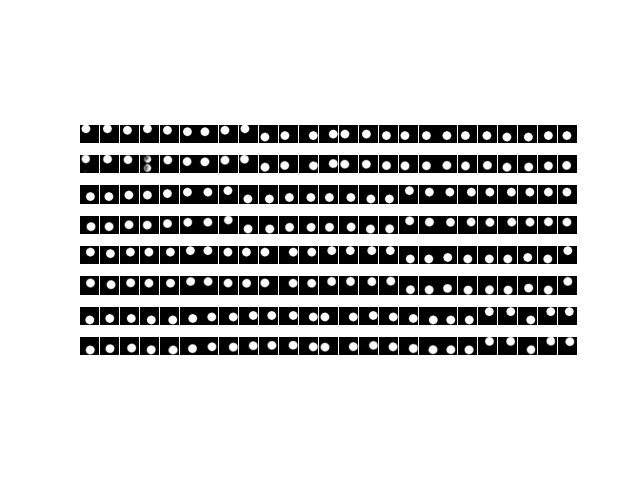
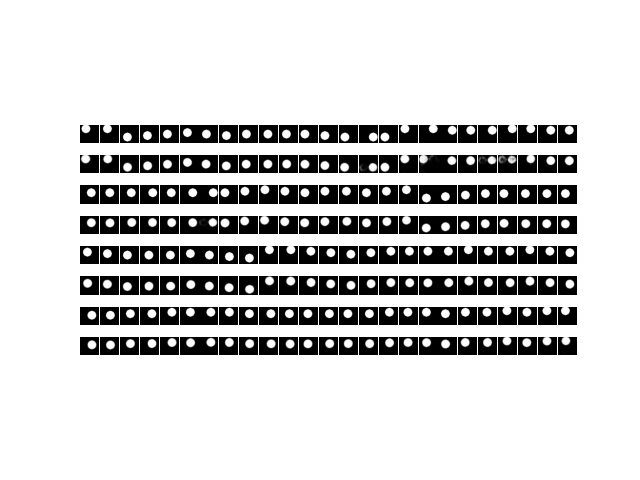
rotation matrix

Changed region(s): [[0.125, 0.25, 0.9062, 0.75]]

diff --git a/code/learn_4_dim_linear_disentangled_representation/vae/arch_torch_sans_cos_sin.py b/code/learn_4_dim_linear_disentangled_representation/vae/arch_torch_sans_cos_sin.py
@@ -37,21 +37,11 @@ class VAE(nn.Module):
 
 		# Physics layers
 
-		self.A_1 = nn.Linear(Z_DIM, Z_DIM)
-		self.A_2 = nn.Linear(Z_DIM, Z_DIM)
-		self.A_3 = nn.Linear(Z_DIM, Z_DIM)
-		self.A_4 = nn.Linear(Z_DIM, Z_DIM)
+		self.A_1_angle = torch.nn.Parameter(torch.Tensor([3.14/4]))
+		self.A_2_angle = torch.nn.Parameter(torch.Tensor([3.14/4]))
+		self.A_3_angle = torch.nn.Parameter(torch.Tensor([3.14/4]))
+		self.A_4_angle = torch.nn.Parameter(torch.Tensor([3.14/4]))
 		
-		
-		self.A_1.weight = torch.nn.Parameter(torch.Tensor([[1,1,0,0],[1,1,0,0],[0,0,1,0],[0,0,0,1]])) 
-		self.A_2.weight = torch.nn.Parameter(torch.Tensor([[1,1,0,0],[1,1,0,0],[0,0,1,0],[0,0,0,1]]))  
-		self.A_3.weight = torch.nn.Parameter(torch.Tensor([[1,0,0,0],[0,1,0,0],[0,0,1,1],[0,0,1,1]]))  
-		self.A_4.weight = torch.nn.Parameter(torch.Tensor([[1,0,0,0],[0,1,0,0],[0,0,1,1],[0,0,1,1]]))
-		self.A_1.bias = torch.nn.Parameter(torch.Tensor([0,0,0,0])) 
-		self.A_2.bias = torch.nn.Parameter(torch.Tensor([0,0,0,0]))
-		self.A_3.bias = torch.nn.Parameter(torch.Tensor([0,0,0,0]))
-		self.A_4.bias = torch.nn.Parameter(torch.Tensor([0,0,0,0])) 	
-
 
 		#import pdb 
 		#pdb.set_trace()
@@ -87,27 +77,45 @@ class VAE(nn.Module):
 		h = F.sigmoid(self.deconv4(h))
 		return h
 
+	def cal_weight(self, angle, up, cuda=True):
+		
+		tensor_0 = torch.zeros(1).cuda()
+		tensor_1 = torch.ones(1).cuda()
+
+		if up:
+			return  torch.stack([
+				torch.stack([torch.cos(angle), -torch.sin(angle), tensor_0, tensor_0]),
+				torch.stack([torch.sin(angle), torch.cos(angle), tensor_0, tensor_0]),
+				torch.stack([tensor_0, tensor_0, tensor_1, tensor_0]),
+				torch.stack([tensor_0, tensor_0, tensor_0, tensor_1])
+			]).reshape(Z_DIM, Z_DIM)
+		else: 
+			return  torch.stack([
+				torch.stack([tensor_1, tensor_0, tensor_0, tensor_0]),
+				torch.stack([tensor_0, tensor_1, tensor_0, tensor_0]),
+				torch.stack([tensor_0, tensor_0, torch.cos(angle), -torch.sin(angle)]),
+				torch.stack([tensor_0, tensor_0, torch.sin(angle), torch.cos(angle)])
+			]).reshape(Z_DIM, Z_DIM)
+
 	def predict_next_z(self, z, action, cuda=True):
 
 		if cuda:
 			res = torch.Tensor([]).cuda()
 		else:
 			res = torch.Tensor([])
-
 		for i,ac in enumerate(action):
-
 			if ac == 0:
-				z_plus_1 = self.A_1(z[i])
+				z_plus_1 = torch.mm(self.cal_weight(self.A_1_angle, True), z[i].unsqueeze(1))
 
 			if ac == 2:
-				z_plus_1 = self.A_2(z[i])
+				z_plus_1 = torch.mm(self.cal_weight(self.A_2_angle, True), z[i].unsqueeze(1))
 
 			if ac == 1:
-				z_plus_1 = self.A_3(z[i])
+				z_plus_1 = torch.mm(self.cal_weight(self.A_3_angle, False), z[i].unsqueeze(1))
 
 			if ac == 3:
-				z_plus_1 = self.A_4(z[i])
-
+				z_plus_1 = torch.mm(self.cal_weight(self.A_4_angle, False), z[i].unsqueeze(1))
+			
 			res = torch.cat((res,z_plus_1.reshape(1,Z_DIM)), dim=0).reshape(-1,Z_DIM)
 
 

diff --git a/code/learn_4_dim_linear_disentangled_representation/01_train_vae_sans_cos_sin.py b/code/learn_4_dim_linear_disentangled_representation/01_train_vae_sans_cos_sin.py
@@ -13,7 +13,19 @@ import os
 from config import plot_figure_loss, early_stopping
 from PIL import Image
 from torch.autograd import Variable
+import random 
 
+def seed_torch(seed=0):
+    random.seed(seed)
+    os.environ['PYTHONHASHSEED'] = str(seed)
+    np.random.seed(seed)
+    # torch.use_deterministic_algorithms(True)
+    torch.manual_seed(seed)
+    torch.cuda.manual_seed(seed)
+    torch.cuda.manual_seed_all(seed) # if you are using multi-GPU.
+    torch.backends.cudnn.benchmark = False
+    torch.backends.cudnn.deterministic = True
+    # torch.backends.cudnn.enabled = False
 
 def parse_args():
 	desc = "Train VAE on one given maze environment"
@@ -64,7 +76,7 @@ def train_batch(vae, optimizer, frames, actions, anneal):
 
 	optimizer.zero_grad()
 	recon_x, mu_and_logvar, z_plus_1, z = vae(frames, actions)
-
+	
 
 	mu = torch.split(mu_and_logvar,int(mu_and_logvar.shape[1]/2),dim=1)[0]
 	logvar = torch.split(mu_and_logvar,int(mu_and_logvar.shape[1]/2),dim=1)[1]
@@ -79,10 +91,10 @@ def train_batch(vae, optimizer, frames, actions, anneal):
 
 	loss_total.backward()
 
-	set_relevant_grad_to_zero(A=vae.A_1, up=True)
-	set_relevant_grad_to_zero(A=vae.A_2, up=True)
-	set_relevant_grad_to_zero(A=vae.A_3, up=False)
-	set_relevant_grad_to_zero(A=vae.A_4, up=False)
+	#set_relevant_grad_to_zero(A=vae.A_1, up=True)
+	#set_relevant_grad_to_zero(A=vae.A_2, up=True)
+	#set_relevant_grad_to_zero(A=vae.A_3, up=False)
+	#set_relevant_grad_to_zero(A=vae.A_4, up=False)
 	
 	optimizer.step()
 
@@ -234,6 +246,7 @@ def train_vae(folder):
 def main():
 
 	# parse arguments
+	seed_torch()
 	args = parse_args()
 
 	if args is None:

diff --git a/code/learn_4_dim_linear_disentangled_representation/plot.py b/code/learn_4_dim_linear_disentangled_representation/plot.py
@@ -4,20 +4,32 @@ import numpy as np
 import matplotlib
 import matplotlib.pyplot as plt
 
-vae = torch.load('vae/1659492429474762/saved_models/epoch_34_env_0', map_location={'cuda:0': 'cpu'})
-A_1 = vae.A_1.weight.detach().numpy()
-A_2 = vae.A_2.weight.detach().numpy()
-A_3 = vae.A_3.weight.detach().numpy()
-A_4 = vae.A_4.weight.detach().numpy()
-print(A_1)
-print(np.linalg.det(A_1))
-print(A_2)
-print(np.linalg.det(A_2))
-print(A_3)
-print(np.linalg.det(A_3))
-print(A_4)
-print(np.linalg.det(A_4))
+def cal_weight(angle, up, cuda=True):
+	
+	tensor_0 = torch.zeros(1)
+	tensor_1 = torch.ones(1)
 
+	if up:
+		return  torch.stack([
+			torch.stack([torch.cos(angle), -torch.sin(angle), tensor_0, tensor_0]),
+			torch.stack([torch.sin(angle), torch.cos(angle), tensor_0, tensor_0]),
+			torch.stack([tensor_0, tensor_0, tensor_1, tensor_0]),
+			torch.stack([tensor_0, tensor_0, tensor_0, tensor_1])
+		]).reshape(4, 4)
+	else: 
+		return  torch.stack([
+			torch.stack([tensor_1, tensor_0, tensor_0, tensor_0]),
+			torch.stack([tensor_0, tensor_1, tensor_0, tensor_0]),
+			torch.stack([tensor_0, tensor_0, torch.cos(angle), -torch.sin(angle)]),
+			torch.stack([tensor_0, tensor_0, torch.sin(angle), torch.cos(angle)])
+		]).reshape(4, 4)
+
+vae = torch.load('vae/16615758883745522/saved_models/epoch_34_env_0', map_location={'cuda:0': 'cpu'})
+
+print(vae.A_1_angle)
+print(vae.A_2_angle)
+print(vae.A_3_angle)
+print(vae.A_4_angle)
 z = torch.tensor([1.,1.,1.,1.])
 im = vae.forward(z,action=None,decode=True).detach().numpy().reshape(-1,3,64,64).transpose((0,2,3,1))
 ims=[]

diff --git a/code/learn_4_dim_linear_disentangled_representation/z_uniform.py b/code/learn_4_dim_linear_disentangled_representation/z_uniform.py
@@ -15,7 +15,7 @@ CUDA = torch.cuda.is_available()
 ## Dtype of the tensors depending on CUDA
 GPU_MODE = True
 DEVICE = torch.device("cuda") if GPU_MODE else torch.device("cpu")
-vae = torch.load('vae/1659492429474762/saved_models/epoch_34_env_0', map_location={'cuda:0': 'cpu'}).to(DEVICE)
+vae = torch.load('vae/16615758883745522/saved_models/epoch_34_env_0', map_location={'cuda:0': 'cpu'}).to(DEVICE)
 
 # t is the temperature??? so
 def uniform_loss(x, t=2):

diff --git a/code/learn_4_dim_linear_disentangled_representation/reconstruction.py b/code/learn_4_dim_linear_disentangled_representation/reconstruction.py
@@ -4,7 +4,7 @@ import matplotlib.pyplot as plt
 import torch 
 
 
-images = np.load('vae/1659492429474762/validation/reconstruction_epoch_34_env_0.npy')
+images = np.load('vae/16615758883745522/validation/reconstruction_epoch_34_env_0.npy')
 input = images[0]
 output = images[1]
 
